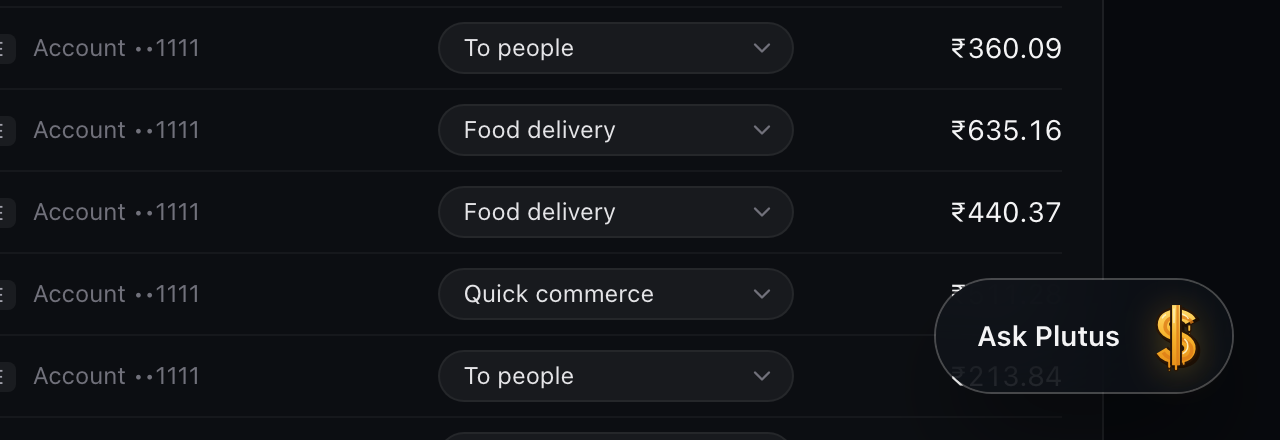
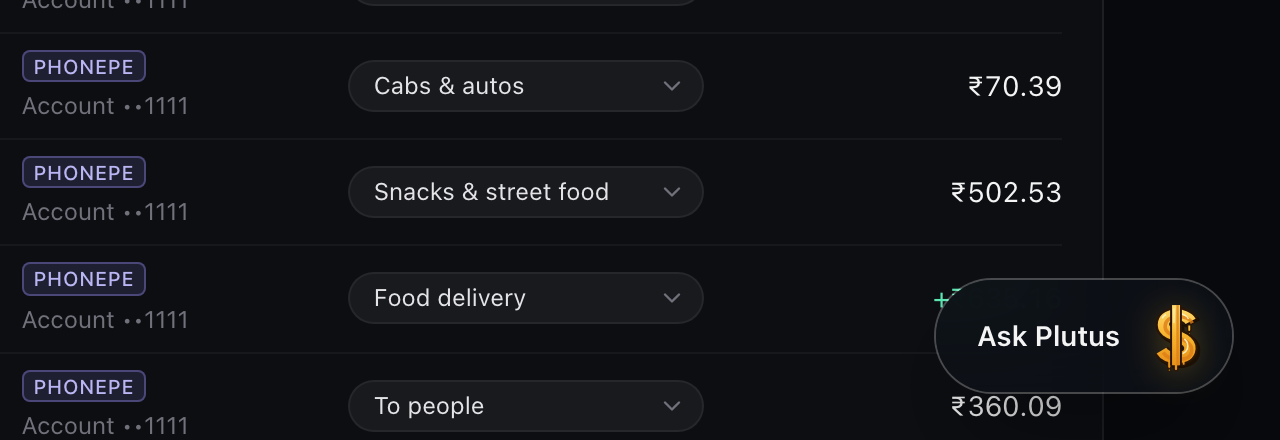
Paid with: a chip each, tinted by kind, the account below
The Paid with cell is now two lines: how the payment was made on top, a chip
each (CARD, PHONEPE, GPAY, PAYTM, UPI; a card through an app is both, e.g.
CARD PHONEPE), and the account or card it was paid from below. The chips have a
row tag's shape, tinted by kind as the owner chose: a card in the charts' blue
(--color-series-1), UPI and its apps in their violet (--color-series-7), text
mixed lighter (9.1:1 and 8.4:1 on their tint); never green, amber or rose. No
line under the chips when a file doesn't say where a payment came from.

Checked in a browser on the demo year: every chip separate and on top, the
account below, blue for a card and violet for UPI on all 562 rows, each chip
what its payment's data says. Docs: DECISIONS #21, GUIDE, ARCHITECTURE,
AGENTS; the README's two pictures that show the list retaken.

diff --git a/web/src/components/dash/TransactionsTable.tsx b/web/src/components/dash/TransactionsTable.tsx
@@ -470,15 +470,7 @@ export function TransactionsTable({
                   </div>
                   {detail(t) && <div className="truncate text-xs text-zinc-500" title={detail(t) || undefined}>{detail(t)}</div>}
                 </td>
-                <td className="py-2 pr-4 text-xs text-zinc-500">
-                  <div className="flex max-w-60 items-center gap-2">
-                    {methodChip(t)}
-                    {/* a long card name is cut short: the whole of it, and what it is, on hover */}
-                    <span className="min-w-0 truncate" title={[paidFromLabel(t, cards, accounts).title, paidFromLabel(t, cards, accounts).detail].filter(Boolean).join(' · ')}>
-                      {paidFromLabel(t, cards, accounts).title}
-                    </span>
-                  </div>
-                </td>
+                <td className="py-2 pr-4">{paidWith(t, paidFromLabel(t, cards, accounts))}</td>
                 <td className="py-2 pr-4">
                   <div className="w-44">
                     <CategorySelect tree={tree} value={t.category} onChange={(c) => setOne(t, c)} compact />
@@ -644,22 +636,31 @@ function OfferRow({
 
 /** A category's name as the dropdown shows it: a top-level category with sub-categories reads "Groceries (general)". */
 /** A row's tag (rowTag): green where money comes in, neutral otherwise. */
-/** How a payment was made ("Paid with"): one chip, in two parts for a card through an app ("Card · PhonePe"). Its
- *  tooltip says it in words. */
-function methodChip(t: Transaction) {
+/** "Paid with": how the payment was made, a chip each (a card in blue, UPI and its apps in violet; their tooltip says it
+ *  in words), and under them the account or card it was paid from (the whole of a long name, and what it is, on
+ *  hover). Nothing under them when the file doesn't say where it came from. */
+function paidWith(t: Transaction, from: { title: string; detail: string }) {
   const how = howPaid(t)
-  if (!how) return null
   return (
-    <span
-      title={how.title}
-      className="inline-flex shrink-0 items-center rounded bg-white/[0.06] text-[10px] font-medium tracking-wide whitespace-nowrap text-zinc-400 uppercase"
-    >
-      {how.parts.map((part, i) => (
-        <span key={part} className={`px-1.5 py-px ${i ? 'border-l border-white/10' : ''}`}>
-          {part}
-        </span>
-      ))}
-    </span>
+    <div className="max-w-60">
+      {how && (
+        <div data-how={how.parts.join('|')} title={how.title} className="flex flex-wrap gap-1">
+          {how.parts.map((part) => (
+            <span
+              key={part}
+              className={`shrink-0 rounded px-1.5 py-px text-[10px] font-medium tracking-wide whitespace-nowrap uppercase ${part === 'Card' ? 'chip-card' : 'chip-upi'}`}
+            >
+              {part}
+            </span>
+          ))}
+        </div>
+      )}
+      {from.title !== '—' && (
+        <div className="mt-1 truncate text-xs text-zinc-500" title={[from.title, from.detail].filter(Boolean).join(' · ')}>
+          {from.title}
+        </div>
+      )}
+    </div>
   )
 }
 

diff --git a/web/src/index.css b/web/src/index.css
@@ -48,6 +48,19 @@
   }
 }
 
+/* "Paid with" chips (components/dash/TransactionsTable.tsx): a card in the charts' blue, UPI in their violet, the
+   shape of a row's tag; never the green of money in, the amber of "look at this" or the rose of danger */
+@utility chip-card {
+  color: color-mix(in oklab, var(--color-series-1) 50%, white);
+  background: color-mix(in oklab, var(--color-series-1) 14%, transparent);
+  box-shadow: inset 0 0 0 1px color-mix(in oklab, var(--color-series-1) 40%, transparent);
+}
+@utility chip-upi {
+  color: color-mix(in oklab, var(--color-series-7) 60%, white);
+  background: color-mix(in oklab, var(--color-series-7) 14%, transparent);
+  box-shadow: inset 0 0 0 1px color-mix(in oklab, var(--color-series-7) 40%, transparent);
+}
+
 @utility text-gradient {
   background: linear-gradient(100deg, #ffe08a 0%, #f7b32d 50%, #e8921a 100%);
   -webkit-background-clip: text;

diff --git a/docs/DECISIONS.md b/docs/DECISIONS.md
@@ -197,18 +197,21 @@ rows; a payment and its posting in different years show in each year's list on t
 `web/src/lib/ledger.ts` (`billSides`, `oneRowPerPayment`, `billNote`, `cardSide`),
 `components/dash/TransactionsTable.tsx`.
 
-## 21. How a payment was made: one chip, from what the files say
+## 21. How a payment was made: chips from what the files say
 
-**Decision**: each row of the transactions list says how the payment was made in one neutral chip in the "Paid with"
-column (right after the payee, before the category: Date, Payee, Paid with, Category, Amount, as the owner set it),
-beside the account or card: **Card** (the card's number), **PhonePe**, **GPay** or **Paytm** (UPI in that
-app), **UPI** (the app isn't known), or a card through an app in one chip of two parts (**Card · PhonePe**, a RuPay
-credit card on UPI; **Card · GPay**; **Card · UPI** when only the card's statement shows it). A card is known the
-way the "Paid from" label knows it; the app is the one whose history the payment came from. Its tooltip says it in
-words.
+**Decision**: each row of the transactions list says how the payment was made in the "Paid with" column (right after
+the payee, before the category: Date, Payee, Paid with, Category, Amount, as the owner set it): a chip each on top,
+the account or card on the line below. **Card** (the card's number), **PhonePe**, **GPay** or **Paytm** (UPI in that
+app), **UPI** (the app isn't known); a card through an app is both chips (**Card** **PhonePe**, a RuPay credit card
+on UPI; **Card** **GPay**; **Card** **UPI** when only the card's statement shows it). A card is known the way the
+"Paid from" label knows it; the app is the one whose history the payment came from. The chips' tooltip says it in
+words. They have a row tag's shape, tinted by kind as the owner chose: a card in the charts' blue
+(`--color-series-1`), UPI and its apps in their violet (`--color-series-7`), the text mixed lighter (9:1 and 8:1
+contrast); never green (money in), amber or rose.
 **Why**: the owner asked for card, card-on-UPI and each app to be told apart. Kept in its own column, the chips line
 up for scanning and sit with the account they describe; the payee column keeps only status tags (Bill paid, Refund,
-+ Statement). No brand colours or logos: the look stays neutral, and the app names only identify where a payment was
-read. Tap, swipe and online aren't told apart because statements don't reliably say which, and Plutus doesn't guess.
-**Where**: `web/src/lib/ledger.ts` (`howPaid`), `components/dash/TransactionsTable.tsx`; tests in
-`web/tests/ledger.test.ts`.
++ Statement). Two tints tell a card from UPI at a glance; no brand colours or logos (every UPI app shares one violet),
+and the app names only identify where a payment was read. Tap, swipe and online aren't told apart because statements
+don't reliably say which, and Plutus doesn't guess.
+**Where**: `web/src/lib/ledger.ts` (`howPaid`), `components/dash/TransactionsTable.tsx` (`paidWith`), the
+`chip-card` and `chip-upi` styles in `web/src/index.css`; tests in `web/tests/ledger.test.ts`.

diff --git a/AGENTS.md b/AGENTS.md
@@ -174,8 +174,9 @@ Backend tests alone: `cd backend && .venv/bin/python -m pytest -q`. Web: `cd web
   Years and colour slots come from the unscoped ledger. Browser storage is only for how panels were left (collapsed,
   ticks), never for choices that change numbers.
 - Rows where money comes in carry a green tag (`rowTag` in `lib/ledger.ts`); a card bill's amount is grey, unsigned.
-  How a payment was made is one neutral chip in the list's "Paid with" column (`howPaid`): only what the files say
-  (the channel, the app whose history it came from, a card), never a guess (tap, swipe or online).
+  How a payment was made shows in the list's "Paid with" column (`howPaid`): a chip each, a card in blue
+  (`chip-card`), UPI and its apps in violet (`chip-upi`), the account or card below; only what the files say (the
+  channel, the app whose history it came from, a card), never a guess (tap, swipe or online).
 - One payment, one row: every side of a card bill payment points to its bill (`settles`: the UPI payment, the
   statement's "PAYMENT RECEIVED"; set in `categorize.link_card_bills` and `billing.statement_bills` when bills are
   placed). The transactions list folds them into the side you paid from (`oneRowPerPayment`, "+ Statement"), and a

diff --git a/docs/GUIDE.md b/docs/GUIDE.md
@@ -190,8 +190,9 @@ their line's end, since lines can cross anywhere and more colours would be too c
 purchase with the card's number (in a shop, tapped, or online: a statement doesn't say which, so Plutus doesn't
 guess), **PhonePe**, **GPay** or **Paytm** for UPI in that app, **UPI** when the app isn't known, and both for a credit
 card used through an app: **Card · PhonePe** (a RuPay credit card on UPI), **Card · GPay** (a card in Google Pay), or
-**Card · UPI** when only the card's statement shows the payment. Beside it, the account or card it was paid from;
-hover the chip to have it in words.
+**Card · UPI** when only the card's statement shows the payment. A card's chip is blue, UPI's violet; under the
+chips, the account or card it was paid from (hover it for a long name in full, and the chips for all of it in
+words).
 
 **Changing categories** in the transactions list:
 

diff --git a/docs/ARCHITECTURE.md b/docs/ARCHITECTURE.md
@@ -339,7 +339,8 @@ year tabs, every section, and Ask Plutus), `pages/CardGallery.tsx` (every card d
 | `lib/storage.ts` | Where files are kept, shared by the components that show it |
 
 **Design**: a neutral dark UI (zinc greys, glass panels, no teal); green only for money coming in; amber for "look at
-this", rose for danger. Charts follow the validated palette in `web/src/index.css` (`--color-series-*`): thin marks,
+this", rose for danger; the transactions list's "Paid with" chips tinted by kind (a card in the palette's blue, UPI in
+its violet). Charts follow the validated palette in `web/src/index.css` (`--color-series-*`): thin marks,
 one filter row, a table view for every chart, and colours that follow the entity (a category's or card's colour is
 fixed from all-time totals, never by rank in a period). Every state has a calm, worded version: empty, busy, error,
 done.
